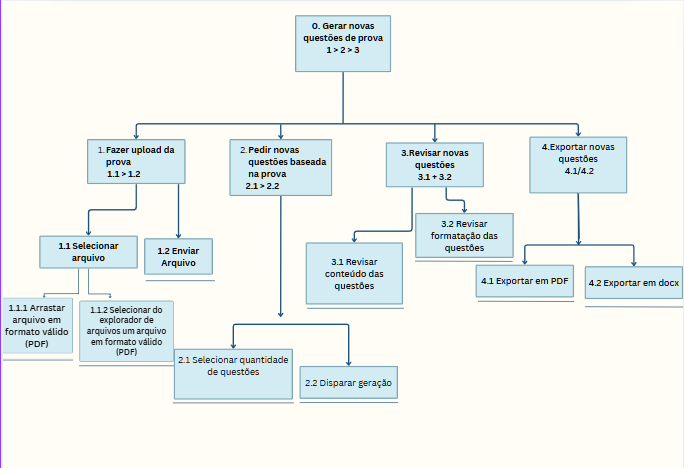
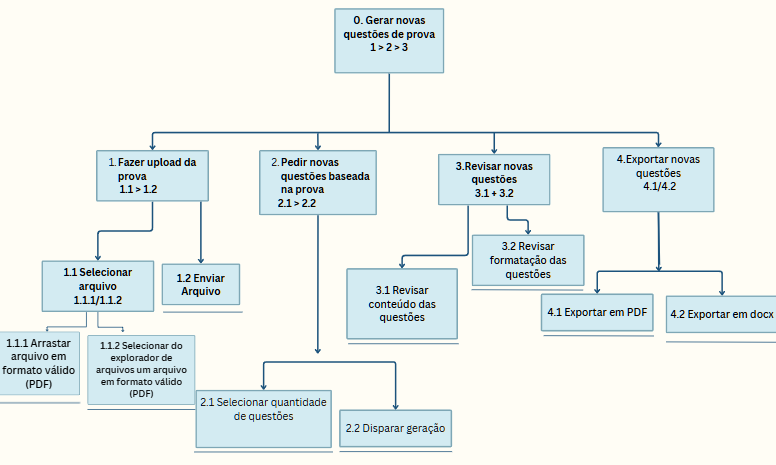
Atualização - Entrega 5

diff --git a/RASTREABILIDADE.md b/RASTREABILIDADE.md
@@ -35,7 +35,7 @@ Use esta tabela para itens importantes marcados como `[H]` ou `[?]`. Preserve o 
 | H06 | O detalhamento de como cada métrica foi calculada pode auxiliar os docentes na interpretação dos resultados. | H | Permite investigar a necessidade de explicações adicionais sobre os resultados apresentados pela interface. | Entrega 7 | Entrega 2 e [link repositório tcc](https://github.com/beatrizmanaia26/TCC-DesempenhoEnem)  | aberta | alto |
 | H07 | Os docentes possuem conhecimento prévio de ferramentas voltadas à criação, gerenciamento ou análise de avaliações. | [?] | Permite identificar a familiaridade dos docentes com ferramentas semelhantes e compreender como essa experiência pode influenciar suas expectativas e sua interação com a interface proposta. | Entregas 2,3(persona 1 e 3) e 7 | Não tem | aberta | alto |
 | H08 | A apresentação das métricas pode auxiliar os docentes a decidir quais características estruturais da avaliação devem ser mantidas ou ajustadas. | H | Permite investigar se os resultados apresentados são suficientes para apoiar decisões durante a revisão da prova. | Entrega 7 | Entrega2 | aberta | alto |
-| H09 | Aluno poderia ser afetafo pelo sistema indiiretamente | H | Caso o aluno seja impactado pelo sistema indiretamente ao utilizar o resultado (prova), características desses indivíduos poderiam ser levadas em consideração e validadas pelo sistema | Entrega 3 - persona 02 | Não consideramos que o aluno tem impacto no sistema de avaliação com base no ENEM pois o seu desenvolvimento é pautado apenas nas análises das provas do ENEM, sem sofrer influências de caraterísticas específicas dos alunos. | aberta | baixo |
+| H09 | Aluno poderia ser afetado pelo sistema indiretamente | H | Caso o aluno seja impactado pelo sistema indiretamente ao utilizar o resultado (prova), características desses indivíduos poderiam ser levadas em consideração e validadas pelo sistema | Entrega 3 - persona 02 | Não consideramos que o aluno tem impacto no sistema de avaliação com base no ENEM pois o seu desenvolvimento é pautado apenas nas análises das provas do ENEM, sem sofrer influências de caraterísticas específicas dos alunos. | aberta | baixo |
 
 ## 3. Rastreabilidade entre contribuição técnica, necessidades e artefatos
 <!-- Usei de "metrica" pra esse a parte final do doc2 (top 5) -->
@@ -45,7 +45,7 @@ Use esta tabela para itens importantes marcados como `[H]` ou `[?]`. Preserve o 
 <!-- Coloquei a C02 também como situação problma por conta da entrega 5 mencionar a C02 na T01 - Assinado, Nuno <3 -->
 | ID | Capacidade do TCC utilizada | Necessidade/problema | Persona | Cenário problema | Objetivo/tarefa | HTA/GOMS/CTT | Cenário de interação / signos | MoLIC | Tela(s) Figma | Heurística / problema | Tarefa no teste | Decisão/melhoria |
 |---|---|---|---|---|---|---|---|---|---|---|---|---|
-| R01 | Apresentação visual das métricas | O docente precisa consultar e interpretar diferentes métricas relacionadas à prova | P01 e P03 | {{C01,C02}} | Consultar os resultados da análise | T01 | `assets\05_tarefas\hta_t01.jpeg`, `assets\05_tarefas\ctt_t01.jpeg` | Pendente | Pendente | Pendente | Pendente | Utilizar diferentes formas de apresentação para organizar e facilitar a interpretação das métricas. |
+| R01 | Apresentação visual das métricas | O docente precisa consultar e interpretar diferentes métricas relacionadas à prova | P01 e P03 | {{C01,C02}} | Consultar os resultados da análise | T01 | `assets\05_tarefas\hta_t01_correcao.jpeg`, `assets\05_tarefas\ctt_t01_correcao.jpeg` | Pendente | Pendente | Pendente | Pendente | Utilizar diferentes formas de apresentação para organizar e facilitar a interpretação das métricas. |
 | R02 | Upload e processamento da prova | A entrada pode exigir conhecimento da estrutura dos dados e configurações adicionais | P01 e P03 | {{C01,C02}} | Enviar a prova para análise | T01 e T03 | `assets\05_tarefas\hta_t01.jpeg`, `assets\05_tarefas\ctt_t01.jpeg`, `assets\05_tarefas\hta_t03.png`, `assets\05_tarefas\ctt_t03.png` | Pendente | Pendente | Pendente | Pendente | Simplificar a etapa de upload e reduzir a quantidade de configurações necessárias. |
 | R03 | Explicabilidade das métricas | Métricas e terminologias técnicas podem exigir conhecimento prévio para serem interpretadas | P01 e P03 | {{C01,C02}} | Compreender o significado das métricas e dos resultados | T01 | `assets\05_tarefas\hta_t01.jpeg`, `assets\05_tarefas\ctt_t01.jpeg` | Pendente | Pendente | Pendente | Pendente | Apresentar explicações sobre o funcionamento da análise, o significado das métricas e a obtenção dos resultados. |
 | R04 | Organização e hierarquia das informações | A apresentação simultânea de muitas informações pode dificultar a consulta dos resultados | P01 e P03 | {{C01,C02}} | Consultar os resultados da análise | T01 | `assets\05_tarefas\hta_t01.jpeg`, `assets\05_tarefas\ctt_t01.jpeg`| Pendente | Pendente | Pendente | Pendente | Priorizando a visibilidade das informações relevantes e evitar o excesso de elementos na apresentação dos resultados |

diff --git a/docs/05_analise_tarefas.md b/docs/05_analise_tarefas.md
@@ -561,7 +561,9 @@ Identifique, quando aplicável, tarefas de usuário, sistema, interação e tare
 |---|---|---|---|
 | 0 | (Objetivo) Gerar novas questões |  1 > 2 > 3 > 4 |Input: prova original fornecida pelo docente. Feedback: novas questões geradas, revisadas e disponíveis para exportação. Plano: realizar o upload da prova, gerar novas questões, revisá-las e exportá-las. |
 | 1 | (Sub objetivo) Fazer upload da prova | 1.1 > 1.2 | Problema: o docente pode selecionar um arquivo incompatível com o sistema. Recomendação: informar os formatos aceitos e apresentar mensagens de erro para arquivos inválidos.|
-| 1.1 | (Operação) Selecionar arquivo | | Ação: selecionar o arquivo da prova armazenado no computador. Feedback: exibir o nome do arquivo selecionado. |
+| 1.1 | (Operação) Selecionar arquivo | 1.1.1/1.1.2 | Ação: selecionar o arquivo da prova armazenado no computador. Feedback: exibir o nome do arquivo selecionado. |
+| 1.1.1 | (operação) Arrastar arquivo em formato válido (PDF) | pode ser feito o 1.1.1 ou o 1.1.2, usuário escolhe qual deseja fazer | Recomendação: A aplicação deve indicar claramente que o usuário pode adicionar um arquivo PDF arrastando-o para o campo destacado ou selecionando-o pelo explorador de arquivos. |
+| 1.1.2 | (operação) Selecionar do explorador de arquivos um arquivo em formato válido (PDF) | pode ser feito o 1.1.1 ou o 1.1.2, usuário escolhe qual deseja fazer | Recomendação: A aplicação deve indicar claramente que o usuário pode adicionar um arquivo PDF arrastando-o para o campo destacado ou selecionando-o pelo explorador de arquivos. |
 | 1.2 | (Operação) Enviar arquivo | | Ação: enviar o arquivo selecionado ao sistema. Feedback: informar se o envio foi concluído ou se ocorreu algum erro. | 
 | 2 | (Sub objetivo) Gerar novas questões | 2.1 + 2.2| Ação: solicitar a geração de novas questões a partir da prova enviada. Feedback: informar o andamento da geração e apresentar as questões produzidas. |
 | 2.1 | (Operação) Selecionar quantidade de questões | | **Ação:** escolher o número de questões a serem geradas. |
@@ -773,7 +775,10 @@ Para o desenvolvimento do protótipo e teste de usabilidade, a equipe priorizou 
   - Alterei o diagrama de ctt com para não ter operador horizontalmente, se tiver filho ser abstração e abstração ter pelo menos 2 filhos <br>
   - Ajustei a descrição e tabela do ctt com base nos ajustes do diagrama <br>
 - entrega t02: LU<br>
-- entrega t03: NUNO<br>
+- entrega t03: Atualizei o HTA para ter operadores 1.1.1 e 1.1.2 para ter maneiras de fazer upload da prova e o novo operador
+  - Corrigi o GOMS para terminar a Goal 3 corretamente com algo que o usuário certifica
+  - Corrigi o CTT para ter a T2 como tarefa abstrata(nuvem)
+  - Alterei descrição e tabela do CTT para adaptar para novos códigos das tarefas<br>
 
 ## Checklist
 

diff --git a/docs/07_coleta_dados.md b/docs/07_coleta_dados.md
@@ -172,7 +172,14 @@ Analise voluntariedade, consentimento, minimização de dados, privacidade, risc
 
 | Dado/informação | Hipótese/lacuna relacionada | Por que é necessário | Qual decisão de design pode afetar |
 |---|---|---|---|
-| {{...}} | {{H01/H02/...}} | {{...}} | {{...}} |
+|  Alfabetismo computacional | H04 | É necessário para verificar quanta facilidade o usuário teria em utilizar a aplicação | A simplificação de elementos visuais da aplicação e como poder acolher corretamente o nível de alfabetização digital dos usuários|
+|  Tecnologia disponível | H04 | É necessário para verificar o que seria utilizado pelos usuários | A adaptação da solução para poder se conformar com os programas e hardware utilizados pelos usuários, assim ajudando os usuários a se adaptarem melhor e poderem utilizar a solução com maior facilidade.|
+|  Experiência com um produto ou ferramentas semelhantes | H07 | Verificar a experiência dos usuários e encontrar pontos populares e impopulares de UX | A adaptação da solução para algo que agrade o docente a partir de sua experiência, assim deixando a plataforma mais fácil dele compreender as informações retornadas e manusear a solução com mais facilidade.|
+|  Educação | H08 | Verificar a alfabetização dos usuários e a facilidade dele com informações como gráficos, tabelas, etc.| Esta informação ajuda a encontrar o melhor meio de mostrar as informações da análise da prova para o usuário, assim facilitando a sua interpretação dos resultados e utiliza-los de uma maneira otimizada.|
+|  Idiomas e jargões | H06 | Verificar as capacidades linguísticas dos usuários | A adaptação da explicação das métricas que forem apresentadas aos usuários para que facilite a sua compreensão do que foi feito durante a análise da prova.|
+| Conhecimento do domínio | H03 | Permite que o usuário possa usar os dados e métricas que forem mostrados para usar na formulação de provas futuras | Não sei |
+| Tarefas | H03 | Verificar usuário que o levaria a utilizar a solução | Definir o que será mostrado ao usuário para que a solução resolva todas as metas que ele teria utilizando a solução. |
+
 
 #### De quem coletar?
 
